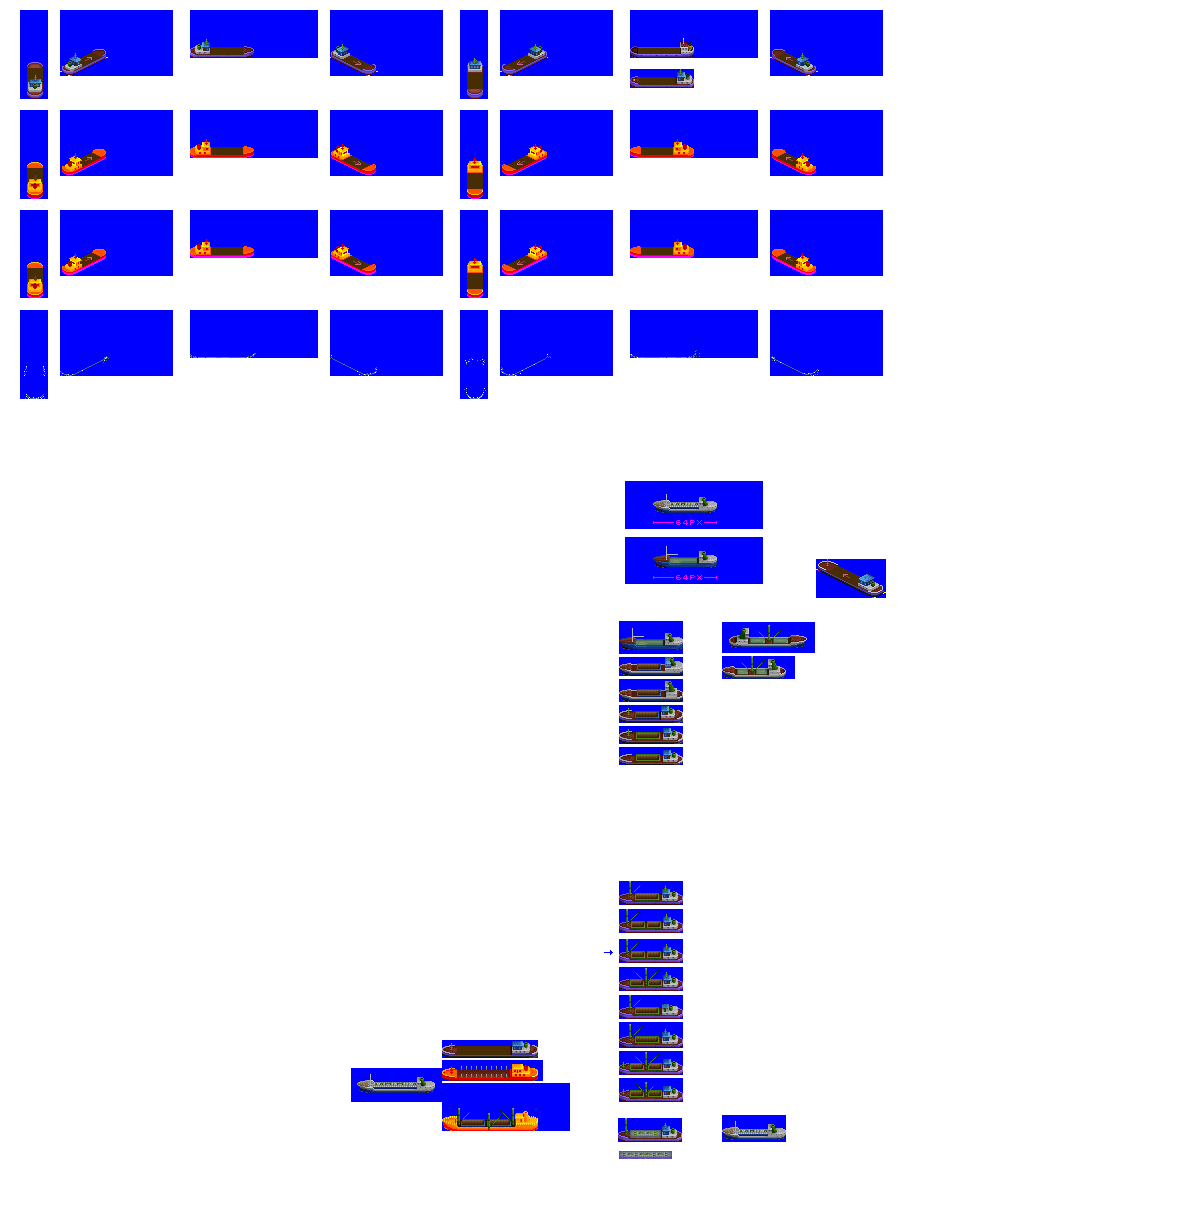
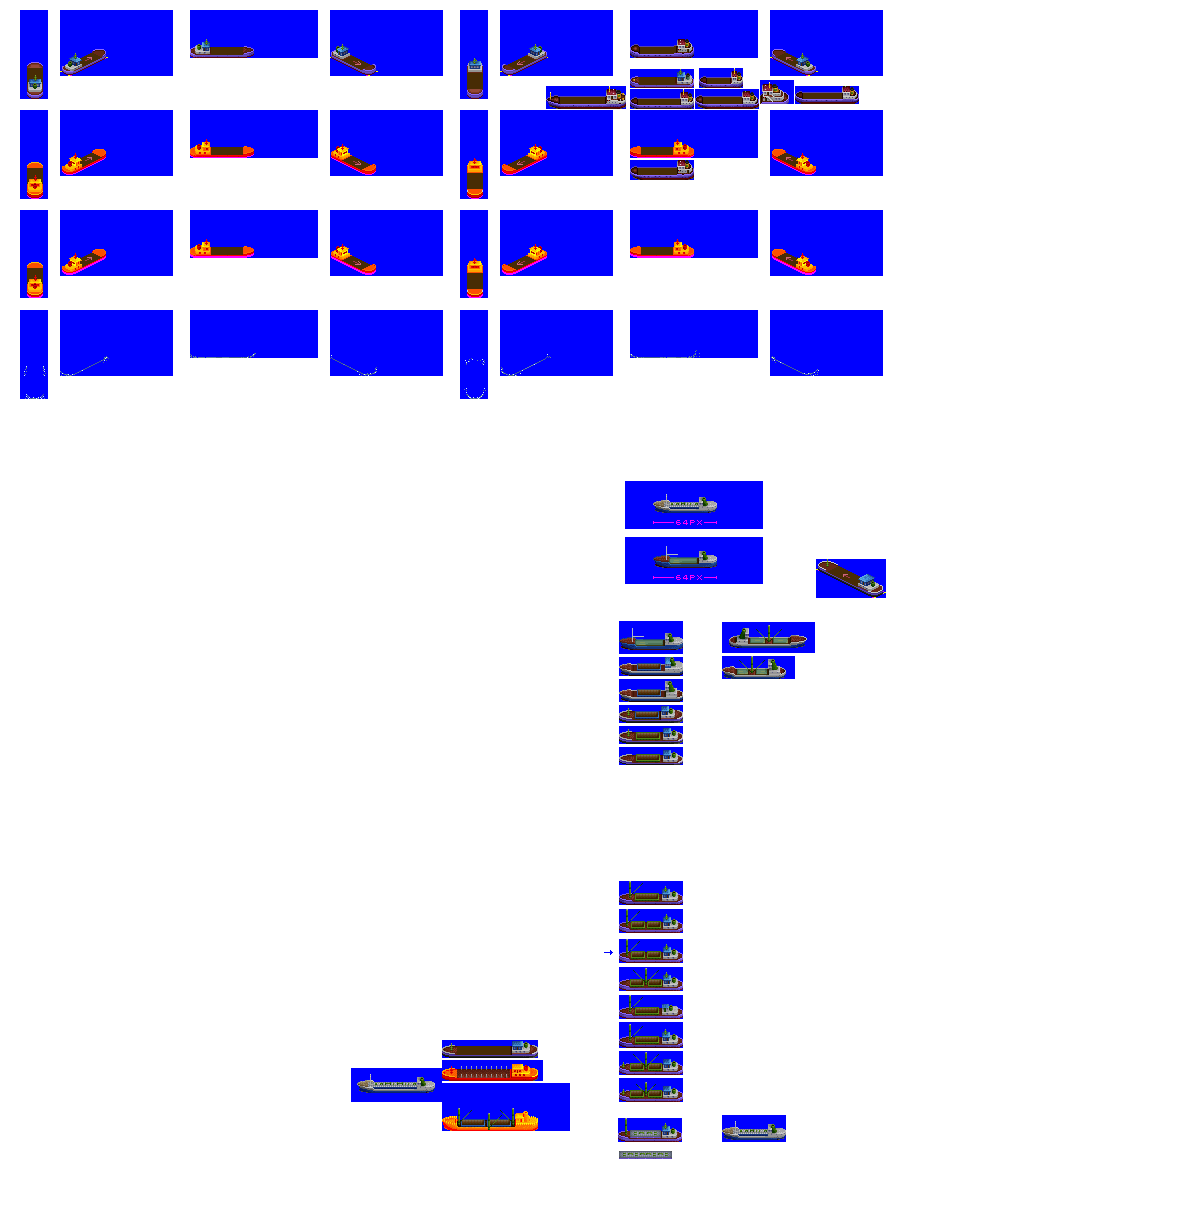
Change: WIP on gen 3B barge hull, freighter, tanker

Changed region(s): [[0.4317, 0.0306, 0.74, 0.0917], [0.5242, 0.1223, 0.5858, 0.1529]]

diff --git a/src/ship.py b/src/ship.py
@@ -802,7 +802,7 @@ class TankerBase(Ship):
                 graphics_constants.house_recolour_roof_dark_red_1.copy()
             )  # copy because update is used to extend the map
             house_recolour_map.update(graphics_constants.house_recolour_CC2_to_CC1)
-        elif self.subtype in ["D", "F"]:
+        elif self.subtype in ["B", "D", "F"]:
             house_recolour_map = graphics_constants.house_recolour_roof_silver_1
         else:
             house_recolour_map = None
